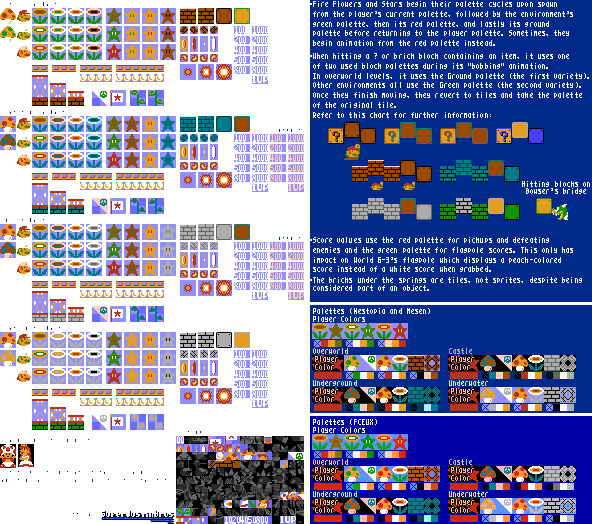
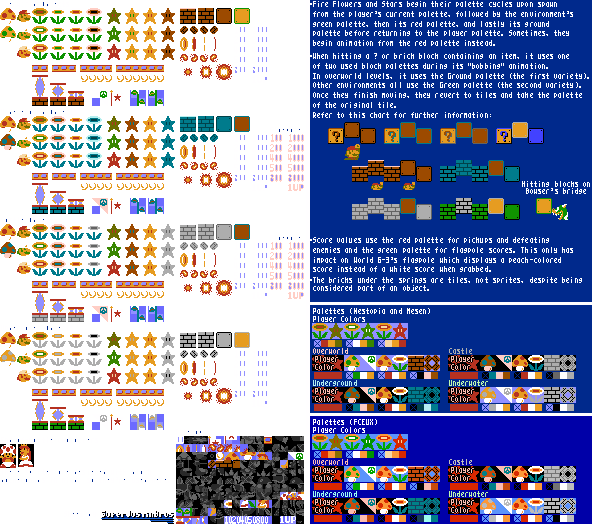
underground particle added

diff --git a/js/block.js b/js/block.js
@@ -1,5 +1,5 @@
 class Block extends Sprite {
-  constructor(x, y, type = "brick", content,isUnderground = false) {
+  constructor(x, y, type = "brick", content, isUnderground) {
     super();
     this.x = x;
     this.y = y;
@@ -21,6 +21,7 @@ class Block extends Sprite {
     this.originalY = y;
     this.hitCooldown = 0;
 
+    this.isUnderground = isUnderground;
     this.updateSprites(isUnderground);
 
     this.blockSprite = new Image();
@@ -30,11 +31,10 @@ class Block extends Sprite {
     this.frameIndex = 0;
     this.frameTimer = 0;
     this.frameDelay = 15;
-    
   }
 
   updateSprites(isUnderground) {
-    if(isUnderground){
+    if (isUnderground) {
       this.questionBlockFrames = [
         { x: 394, y: 78 },
         { x: 411, y: 78 },
@@ -44,7 +44,7 @@ class Block extends Sprite {
       this.hitFrame = { x: 445, y: 78 };
       this.brickFrame = { x: 181, y: 16 };
       this.stairFrame = { x: 147, y: 33 };
-    }else{
+    } else {
       this.questionBlockFrames = [
         { x: 298, y: 78 },
         { x: 315, y: 78 },
@@ -135,16 +135,29 @@ class Block extends Sprite {
         const player = sprites.find((sprite) => sprite instanceof Player);
         if (player && player.isSuper) {
           // Create four particles
-          sprites.push(new BrickParticle(this.x, this.y, -1));
-          sprites.push(new BrickParticle(this.x + this.width, this.y, 1));
+          sprites.push(new BrickParticle(this.x, this.y, -1, this.isUnderground));
           sprites.push(
-            new BrickParticle(this.x, this.y + this.height / 2, -0.5)
+            new BrickParticle(
+              this.x + this.width,
+              this.y,
+              1,
+              this.isUnderground
+            )
+          );
+          sprites.push(
+            new BrickParticle(
+              this.x,
+              this.y + this.height / 2,
+              -0.5,
+              this.isUnderground
+            )
           );
           sprites.push(
             new BrickParticle(
               this.x + this.width,
               this.y + this.height / 2,
-              0.5
+              0.5,
+              this.isUnderground
             )
           );
           return true; // Remove the block

diff --git a/js/brickParticle.js b/js/brickParticle.js
@@ -1,5 +1,5 @@
 class BrickParticle extends Sprite {
-  constructor(x, y, direction) {
+  constructor(x, y, direction, isUnderground = false) {
     super();
     this.x = x;
     this.y = y;
@@ -7,18 +7,23 @@ class BrickParticle extends Sprite {
     this.height = 16;
     this.spriteSheet = new Image();
     this.spriteSheet.src = "../images/items.png";
-    
-    // Sprite coordinates
-    this.sourceX = 180;
-    this.sourceY = 26;
-    
+
+    // Sprite coordinates based on isUnderground
+    if (isUnderground) {
+      this.sourceX = 180;
+      this.sourceY = 134; // Underground Y coordinate
+    } else {
+      this.sourceX = 180;
+      this.sourceY = 26; // Overworld Y coordinate
+    }
+
     // Physics properties
     this.velocityX = direction * 4; // direction: 1 for right, -1 for left
     this.velocityY = -8; // Initial upward velocity
     this.gravity = 0.5;
     this.rotation = 0;
     this.rotationSpeed = direction * 10; // Rotate based on direction
-    
+
     // Lifetime management
     this.lifetime = 60; // Frames the particle will exist
     this.currentLife = 0;
@@ -29,26 +34,26 @@ class BrickParticle extends Sprite {
     this.velocityY += this.gravity;
     this.x += this.velocityX;
     this.y += this.velocityY;
-    
+
     // Update rotation
     this.rotation += this.rotationSpeed;
-    
+
     // Update lifetime
     this.currentLife++;
-    
+
     // Return true when particle should be removed
     return this.currentLife >= this.lifetime;
   }
 
   draw(ctx) {
     if (!this.spriteSheet.complete) return;
-    
+
     ctx.save();
-    
+
     // Set rotation center to middle of particle
     ctx.translate(this.x + this.width / 2, this.y + this.height / 2);
     ctx.rotate((this.rotation * Math.PI) / 180);
-    
+
     // Draw the particle
     ctx.drawImage(
       this.spriteSheet,
@@ -61,7 +66,7 @@ class BrickParticle extends Sprite {
       this.width,
       this.height
     );
-    
+
     ctx.restore();
   }
 }

diff --git a/js/levelManager.js b/js/levelManager.js
@@ -174,7 +174,7 @@ class LevelManager {
       id: "1-1",
       width: 5945,
       height: 480,
-      playerSpawn: { x: 5000, y: 380 },
+      playerSpawn: { x: 81, y: 380 },
 
       groundSegments: [
         { x: 0, width: 2048, height: 32 }, // First ground section until first gap
